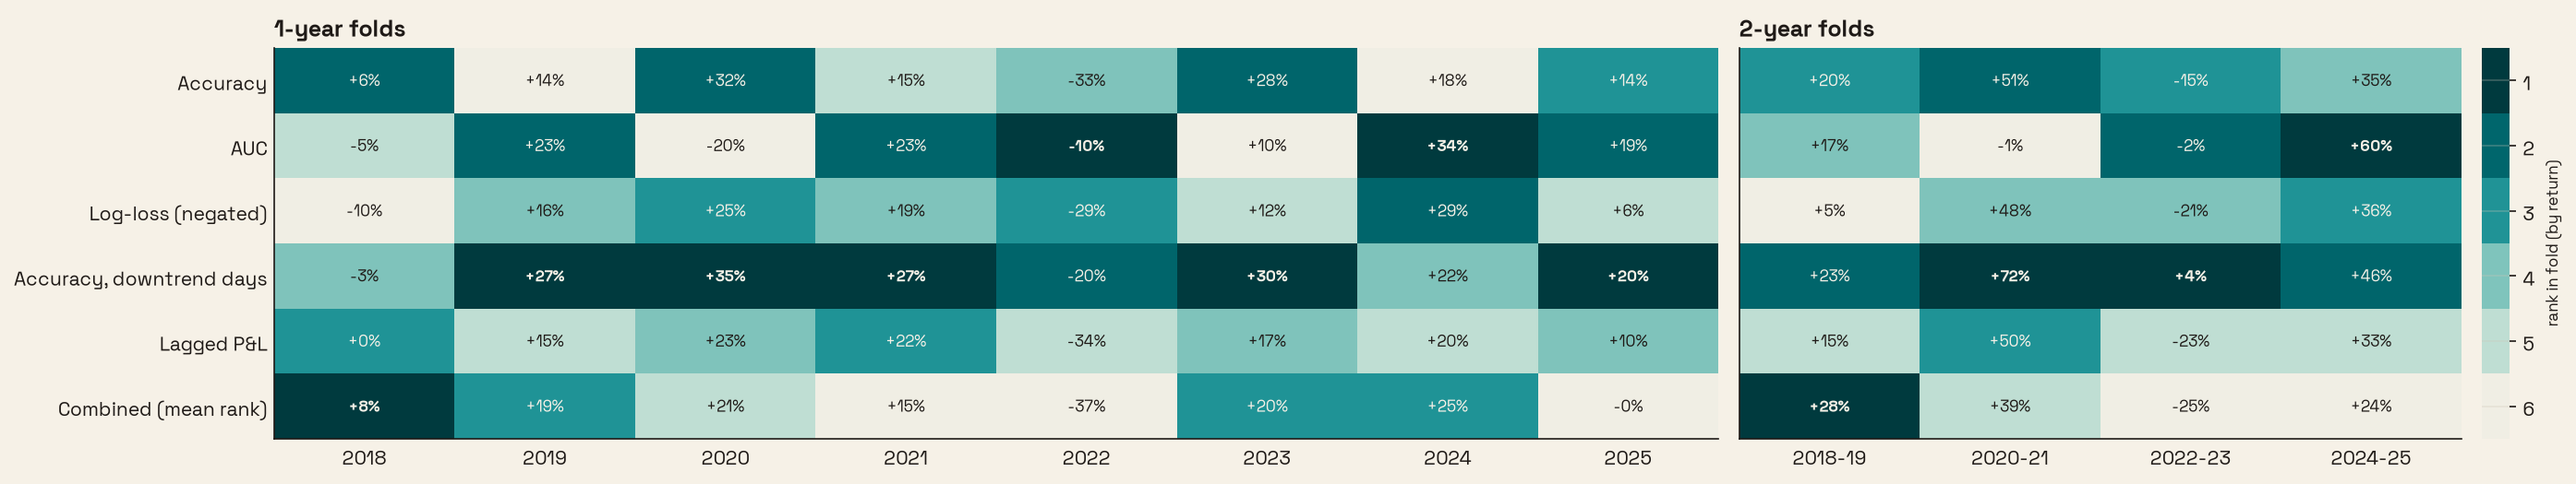
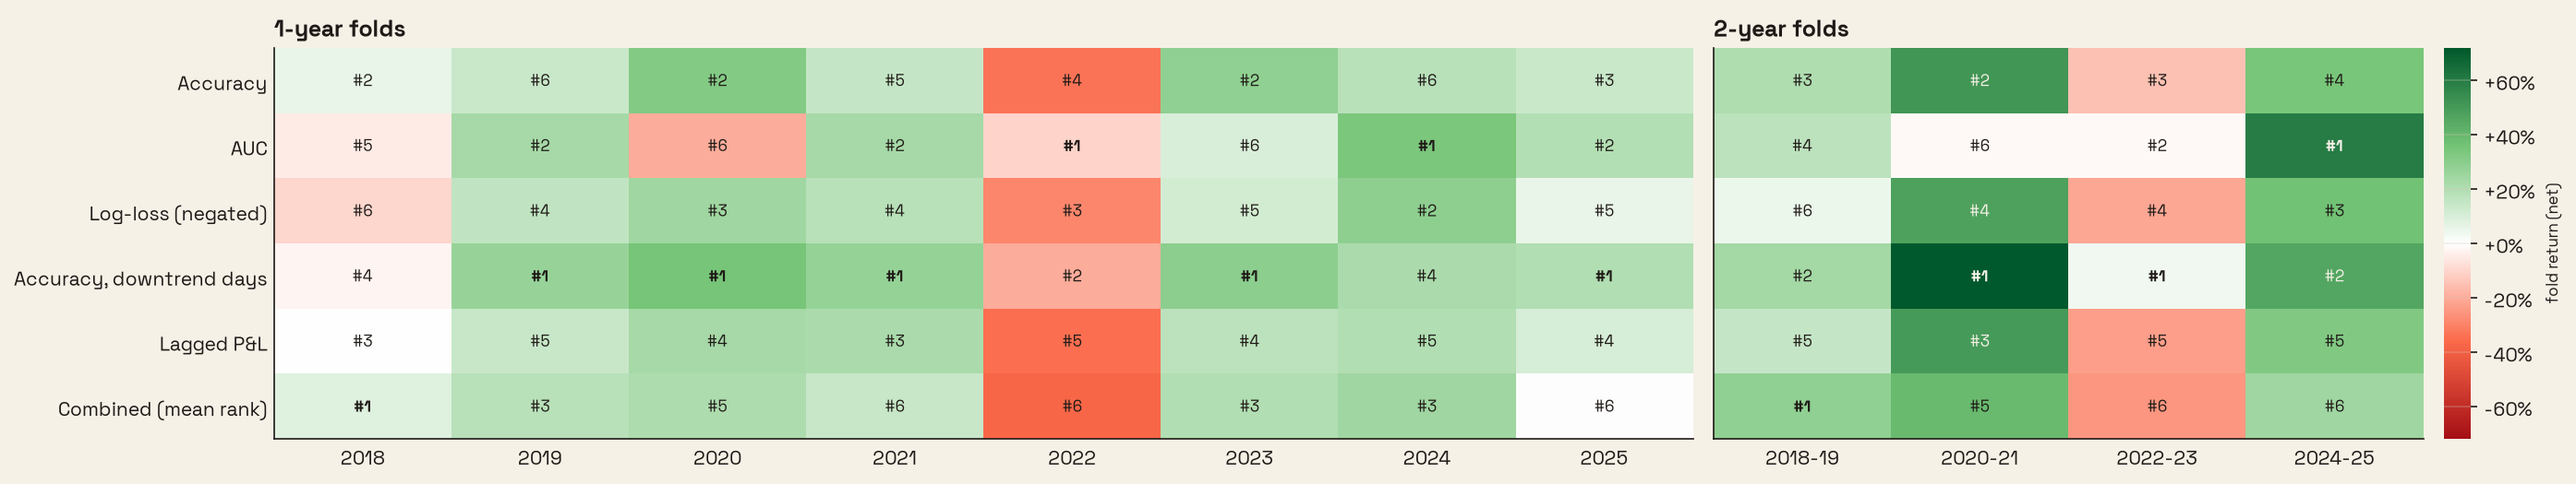
H2 heatmap: color by fold return (red-white-green, centered 0), label cells with rank

diff --git a/evalsq/plots.py b/evalsq/plots.py
@@ -259,32 +259,32 @@ def plot_learned_weights(w: pd.DataFrame, summary: pd.DataFrame, cutoff: str, pa
 
 
 def plot_h2_folds(folds: dict, path: Path) -> Path:
-    """Rule x fold heatmap per block size: color = rank within the fold (dark = best), text = fold return."""
-    from matplotlib.colors import ListedColormap
+    """Rule x fold heatmap per block size: color = fold return (red < 0 < green), text = rank within the fold."""
+    from matplotlib.colors import TwoSlopeNorm
 
     widths = [len(f) for f in folds.values()]
     fig, axs = plt.subplots(1, len(folds) + 1, figsize=(5.5 + 1.1 * sum(widths), 3.6),
                             gridspec_kw={"width_ratios": widths + [0.15]})
     axes, cax = axs[:-1], axs[-1]
     n = next(iter(folds.values())).shape[1]
-    # Single-hue ramp so rank reads monotonically: near-black teal = 1st, fading to near-paper = last.
-    ramp = LinearSegmentedColormap.from_list("rank", ["#003A3E", "#00838A", "#9FD4C8", "#F0EEE4"])
-    cmap = ListedColormap([ramp(i / max(n - 1, 1)) for i in range(n)])
+    # Diverging, centered at 0 and symmetric so equal |return| reads as equal intensity; shared across panels.
+    cmap = LinearSegmentedColormap.from_list("ret", ["#A50F15", "#FB6A4A", "#FFFFFF", "#74C476", "#00592C"])
+    lim = max(np.abs(f.values).max() for f in folds.values())
+    norm = TwoSlopeNorm(vmin=-lim, vcenter=0, vmax=lim)
     for ax, (block, f) in zip(axes, folds.items()):
         rank = f.rank(axis=1, ascending=False, method="min").T
-        ax.imshow(rank.values, aspect="auto", cmap=cmap, vmin=0.5, vmax=n + 0.5, interpolation="nearest")
+        ax.imshow(f.T.values, aspect="auto", cmap=cmap, norm=norm, interpolation="nearest")
         for (i, j), v in np.ndenumerate(f.T.values):
-            ax.text(j, i, f"{v:+.0%}", ha="center", va="center", fontsize=8,
-                    color=PAPER if rank.values[i, j] <= n / 2 else INK, fontweight="bold" if rank.values[i, j] == 1 else None)
+            r = int(rank.values[i, j])
+            ax.text(j, i, f"#{r}", ha="center", va="center", fontsize=8,
+                    color=PAPER if abs(v) > 0.55 * lim else INK, fontweight="bold" if r == 1 else None)
         ax.set_xticks(range(len(f)), f.index)
         ax.set_yticks(range(n), [RULE_LABELS.get(r, r) for r in f.columns] if ax is axes[0] else [])
         ax.set_title(f"{block}-year folds", loc="left")
         ax.grid(False)
         ax.tick_params(length=0)
-    cb = fig.colorbar(plt.cm.ScalarMappable(cmap=cmap, norm=plt.Normalize(0.5, n + 0.5)), cax=cax,
-                      ticks=range(1, n + 1))
-    cb.ax.invert_yaxis()
-    cb.set_label("rank in fold (by return)", fontsize=8)
+    cb = fig.colorbar(plt.cm.ScalarMappable(cmap=cmap, norm=norm), cax=cax, format=lambda x, _: f"{x:+.0%}")
+    cb.set_label("fold return (net)", fontsize=8)
     cb.outline.set_visible(False)
     return _save(fig, path)
 
